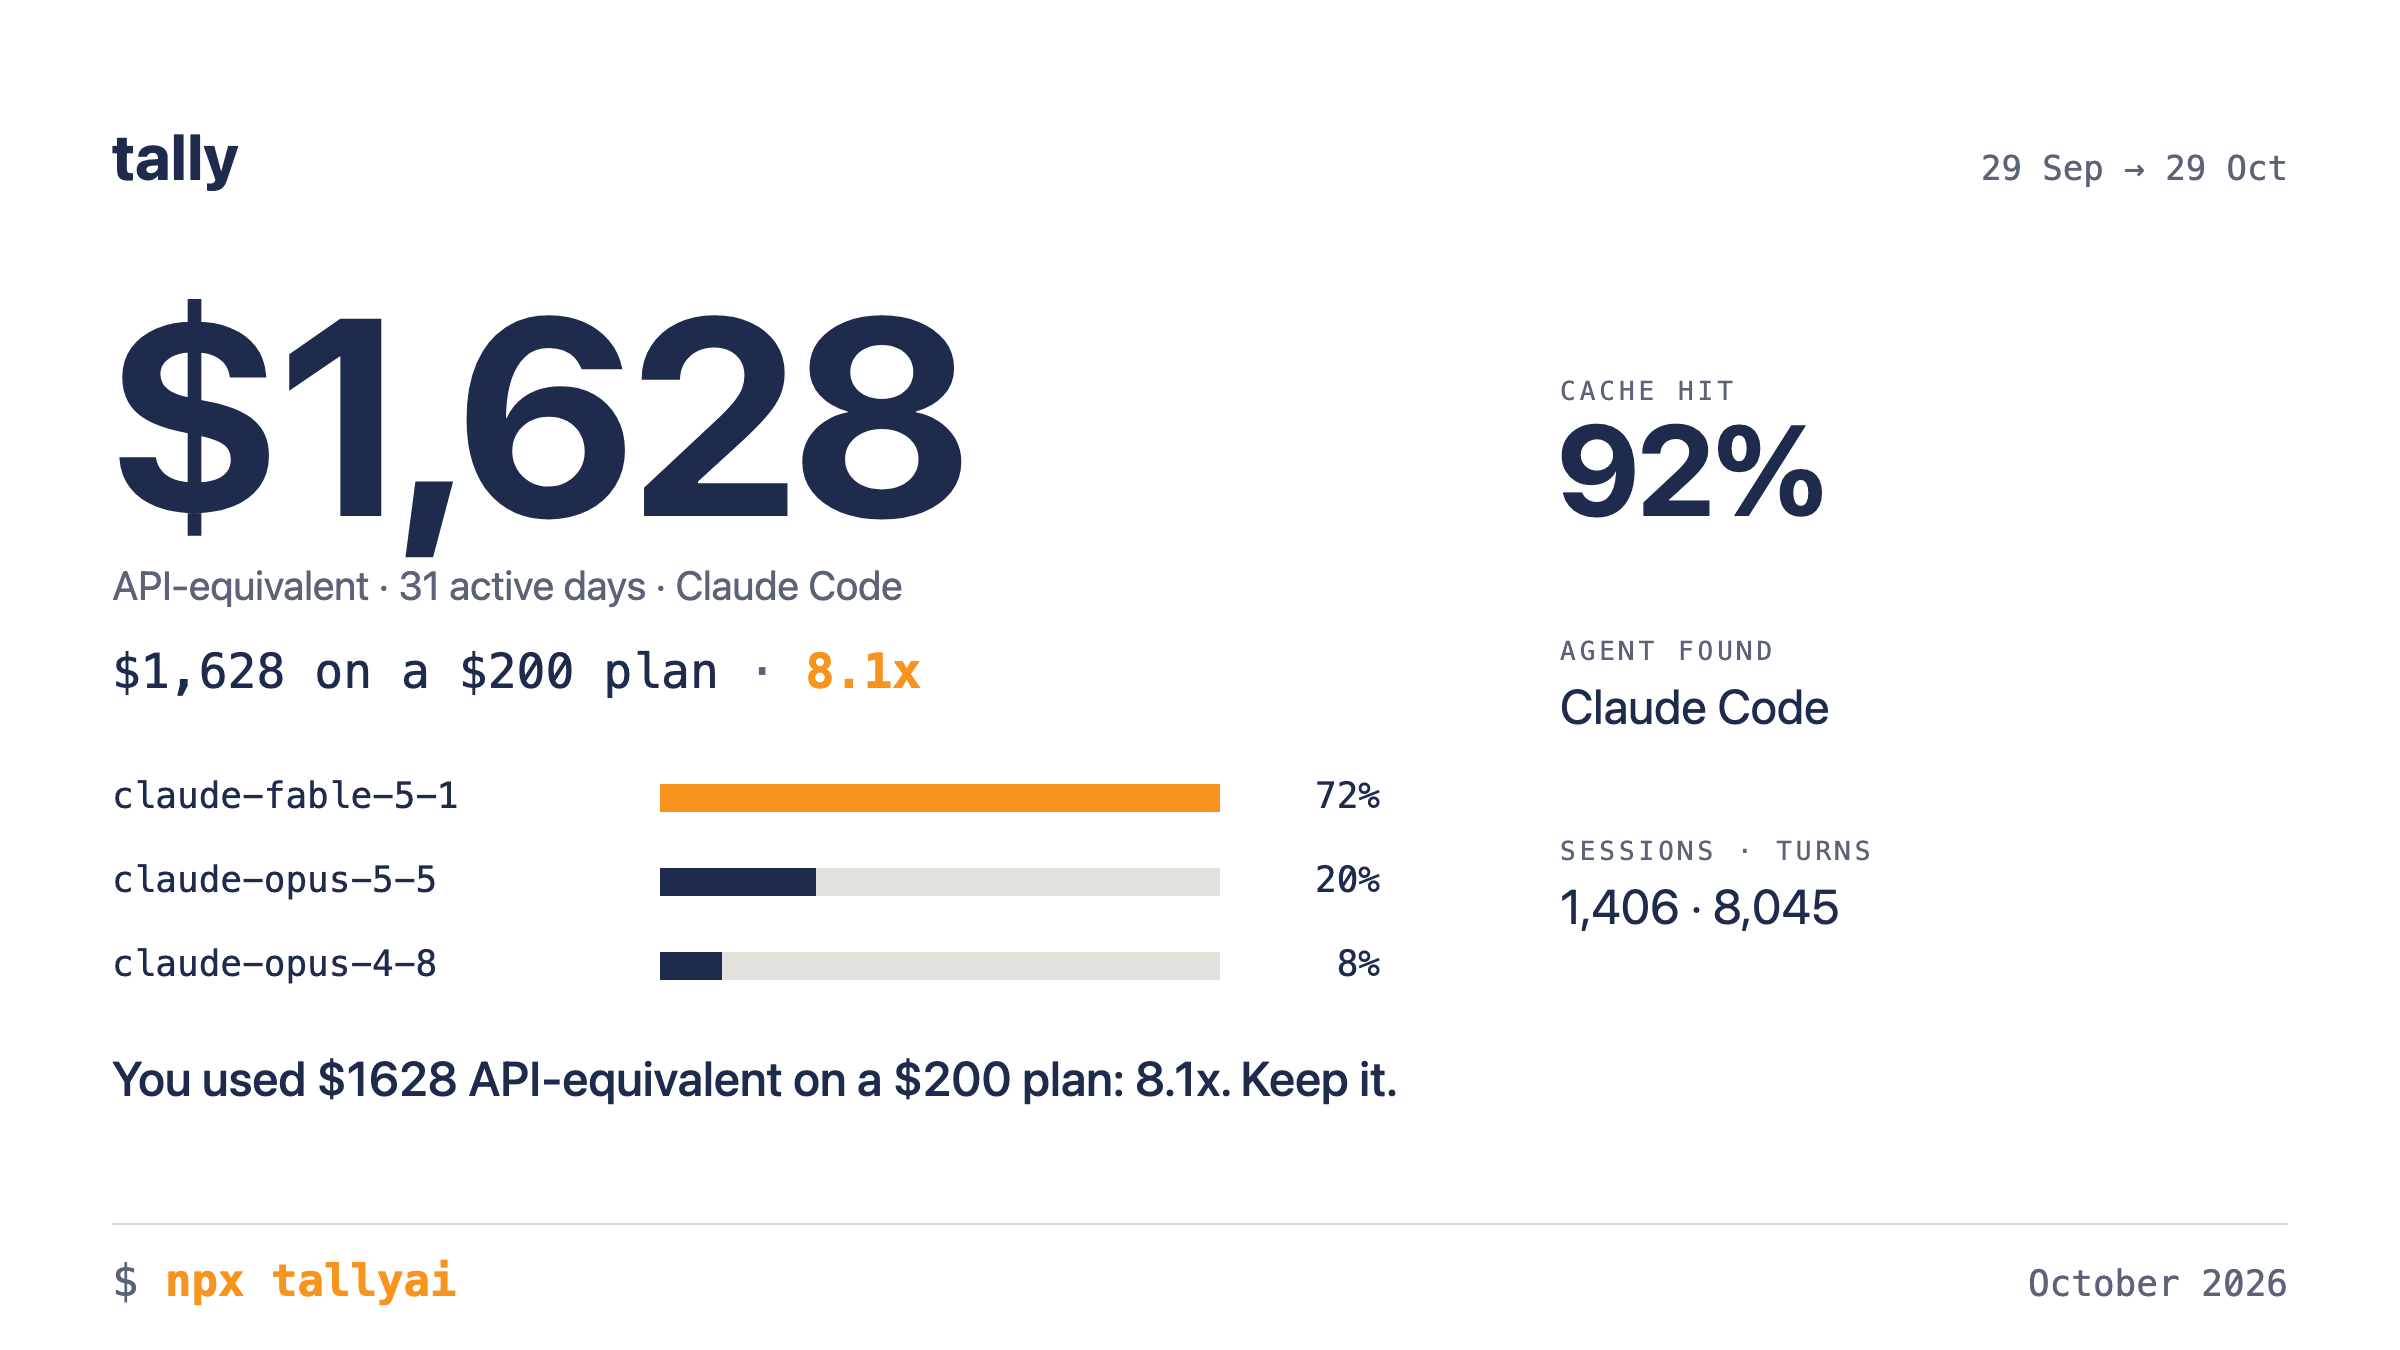
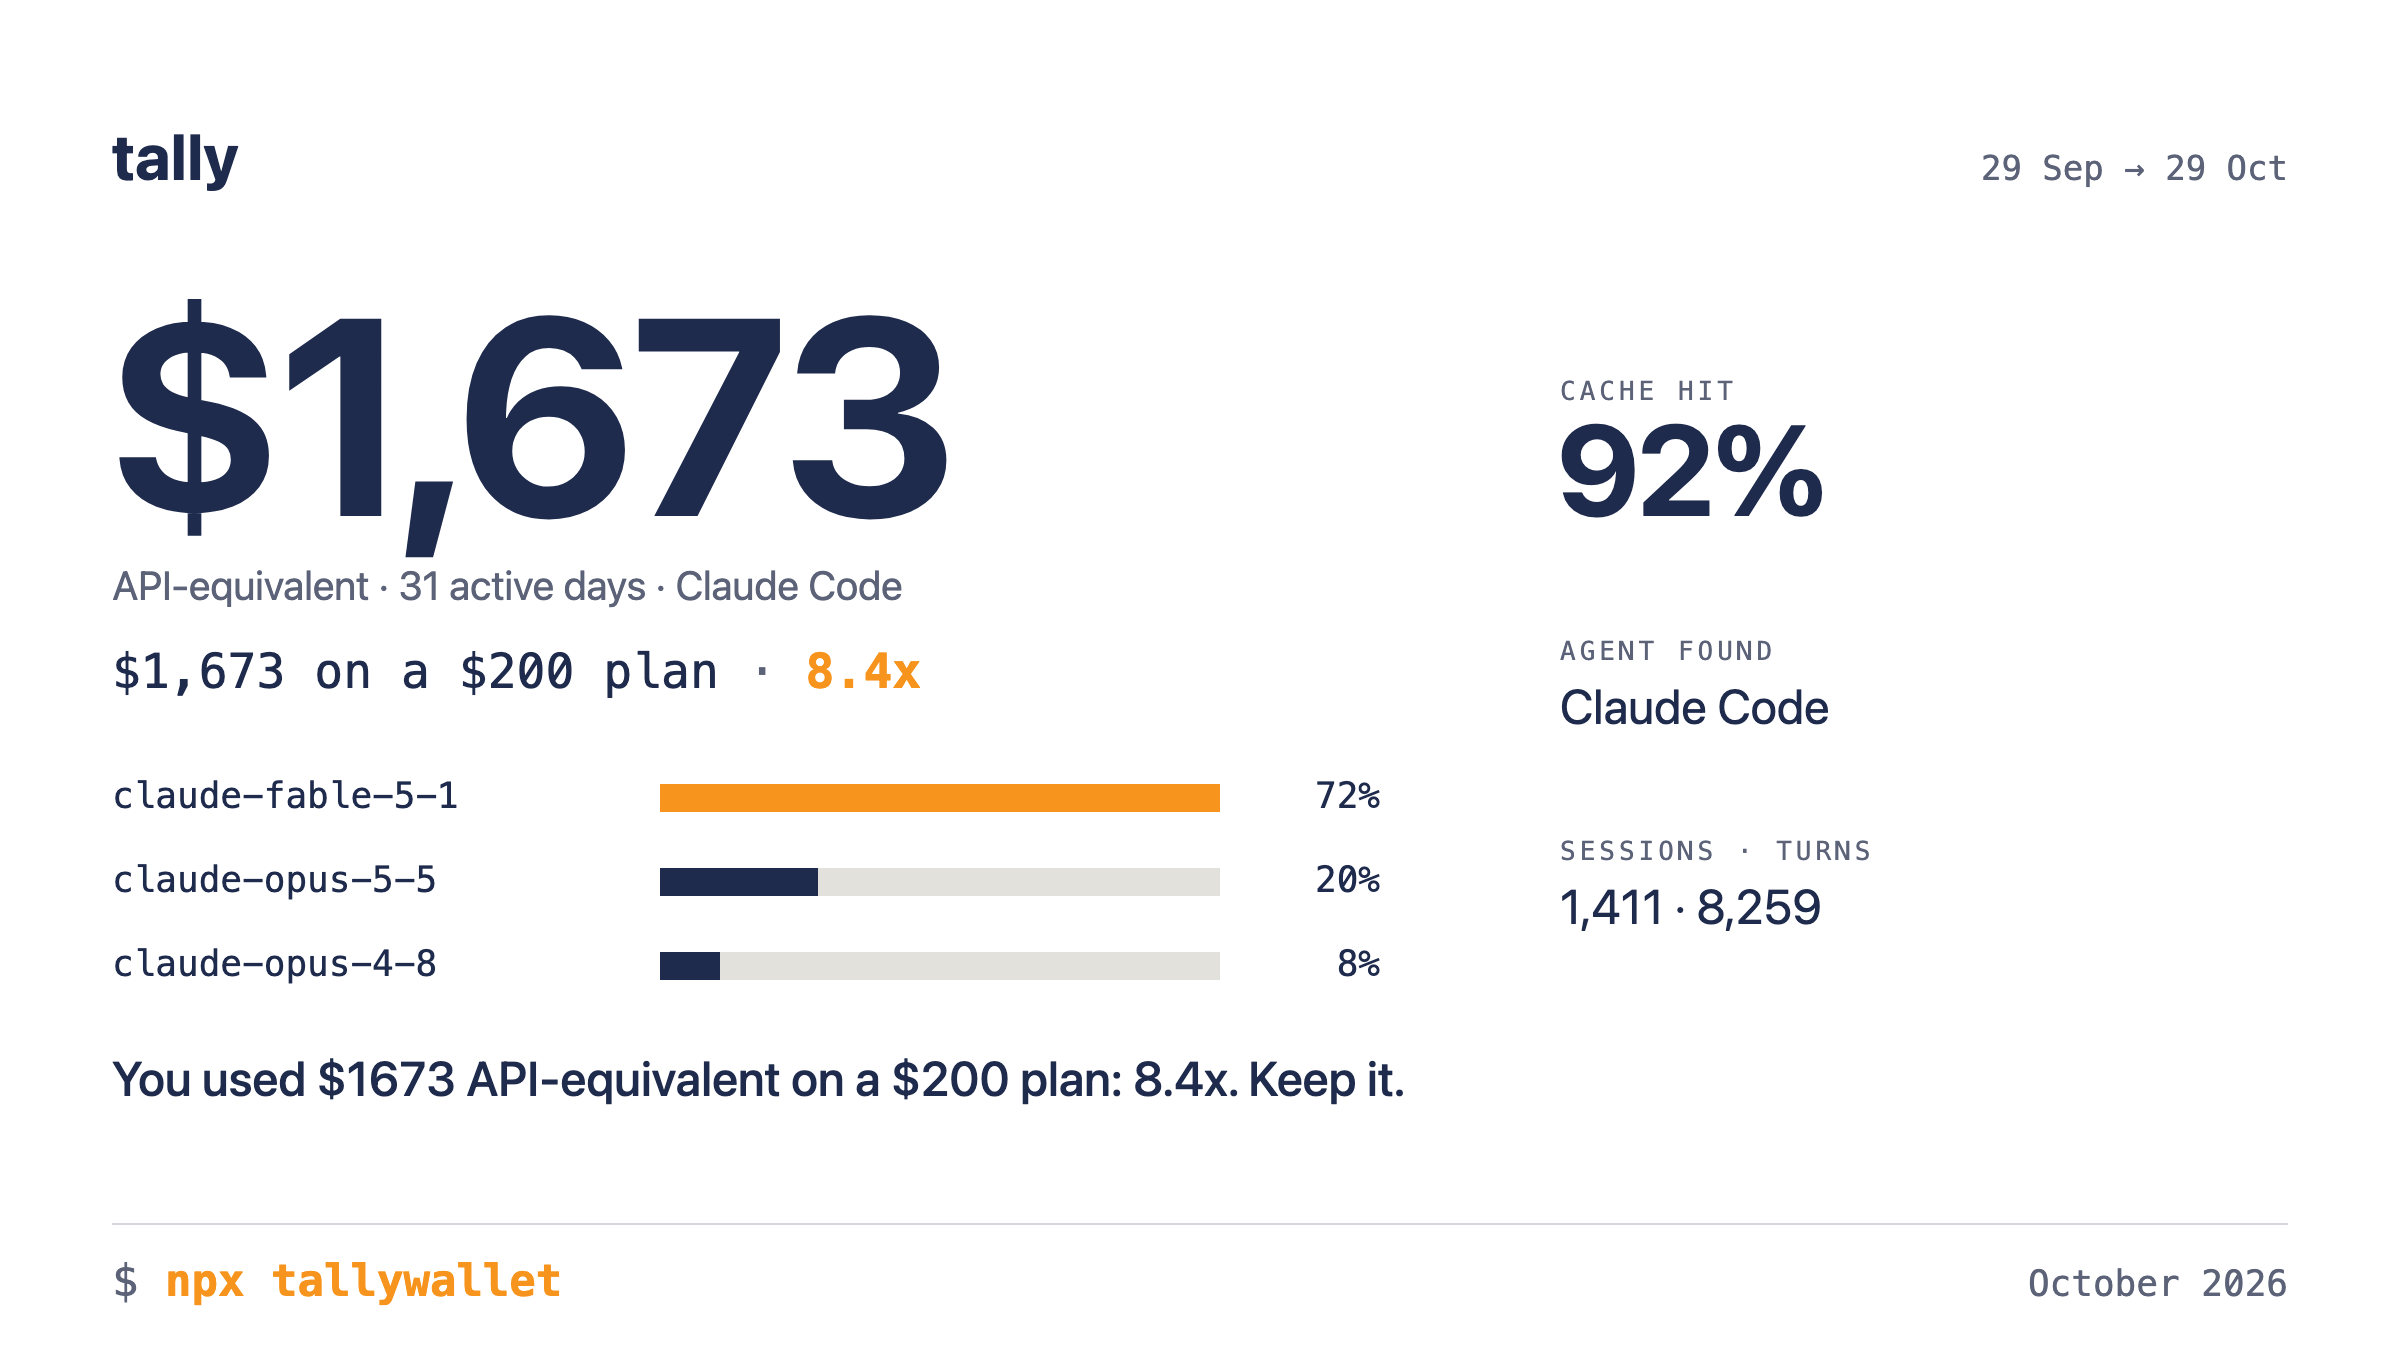
Rename the npm package to tallywallet (npm blocks tallyai as too similar to tally-ai)

diff --git a/packages/site/index.html b/packages/site/index.html
@@ -4,7 +4,7 @@
 <meta charset="utf-8">
 <meta name="viewport" content="width=device-width, initial-scale=1">
 <title>Tally, your AI wallet</title>
-<meta name="description" content="npx tallyai reads the Claude Code logs already on your disk, prices them at API rates and says whether to keep the plan. Read-only, local, no account, MIT.">
+<meta name="description" content="npx tallywallet reads the Claude Code logs already on your disk, prices them at API rates and says whether to keep the plan. Read-only, local, no account, MIT.">
 <link rel="canonical" href="https://tally-ai-wallet.netlify.app/">
 <meta property="og:type" content="website">
 <meta property="og:title" content="Tally, your AI wallet">
@@ -14,7 +14,7 @@
 <meta property="og:image:height" content="630">
 <meta name="twitter:card" content="summary_large_image">
 <meta name="twitter:title" content="Tally, your AI wallet">
-<meta name="twitter:description" content="See what your plan is worth. npx tallyai, no account, nothing uploaded.">
+<meta name="twitter:description" content="See what your plan is worth. npx tallywallet, no account, nothing uploaded.">
 <meta name="twitter:image" content="https://tally-ai-wallet.netlify.app/assets/og.png">
 <meta name="theme-color" content="#ffffff" media="(prefers-color-scheme: light)">
 <meta name="theme-color" content="#05070a" media="(prefers-color-scheme: dark)">
@@ -50,7 +50,7 @@
     <div class="hero__reel" aria-label="The wallet screen, as tally prints it">
       <div class="hero__strip" id="strip">
         <figure class="hero__frame" data-ui>
-<pre class="term term--wide" title="A real 30-day run, 29 Sep to 29 Oct 2026"><span class="dim">$ </span>npx tallyai
+<pre class="term term--wide" title="A real 30-day run, 29 Sep to 29 Oct 2026"><span class="dim">$ </span>npx tallywallet
 <b>tally · 2026-09-29 → 2026-10-29</b>
 
 <b>YOUR AI WALLET</b>
@@ -62,7 +62,7 @@
     claude-sonnet-5             $2.94    0%  cache hit 89%
   openrouter                    <b>$0.52</b> billed
                             2,342 requests · 6 models</pre>
-<pre class="term term--phone" title="A real 30-day run, 29 Sep to 29 Oct 2026"><span class="dim">$ </span>npx tallyai
+<pre class="term term--phone" title="A real 30-day run, 29 Sep to 29 Oct 2026"><span class="dim">$ </span>npx tallywallet
 <b>tally · 2026-09-29 → 2026-10-29</b>
 
 <b>YOUR AI WALLET</b>
@@ -144,12 +144,12 @@
 
     <div class="hero__foot">
       <span class="hero__hint">Swipe for the verdict and the deals.</span>
-      <p>npx tallyai reads the Claude Code logs already on your disk, prices them at API rates and says whether to keep the plan. Read-only, local, no account.</p>
+      <p>npx tallywallet reads the Claude Code logs already on your disk, prices them at API rates and says whether to keep the plan. Read-only, local, no account.</p>
     </div>
     <div class="hero__cmd">
       <div class="cmd">
-        <code>npx tallyai</code>
-        <button class="cmd__copy" type="button" data-copy="npx tallyai" aria-label="Copy npx tallyai">
+        <code>npx tallywallet</code>
+        <button class="cmd__copy" type="button" data-copy="npx tallywallet" aria-label="Copy npx tallywallet">
           <span class="ic" aria-hidden="true">
             <svg class="ic--copy" viewBox="0 0 16 16" fill="none" stroke="currentColor" stroke-width="1.5" stroke-linecap="round" stroke-linejoin="round"><rect x="5.5" y="5.5" width="8" height="8" rx="1"/><path d="M10.5 5.5v-2a1 1 0 0 0-1-1h-6a1 1 0 0 0-1 1v6a1 1 0 0 0 1 1h2"/></svg>
             <svg class="ic--done" viewBox="0 0 16 16" fill="none" stroke="currentColor" stroke-width="1.8" stroke-linecap="round" stroke-linejoin="round"><path d="M3 8.5l3 3 7-7"/></svg>
@@ -469,8 +469,8 @@ No route events yet. Start the
   <div class="tile tile--cmd">
     <p>Run it once, no key.</p>
     <div class="cmd">
-      <code>npx tallyai</code>
-      <button class="cmd__copy" type="button" data-copy="npx tallyai" aria-label="Copy npx tallyai">
+      <code>npx tallywallet</code>
+      <button class="cmd__copy" type="button" data-copy="npx tallywallet" aria-label="Copy npx tallywallet">
         <span class="ic" aria-hidden="true">
           <svg class="ic--copy" viewBox="0 0 16 16" fill="none" stroke="currentColor" stroke-width="1.5" stroke-linecap="round" stroke-linejoin="round"><rect x="5.5" y="5.5" width="8" height="8" rx="1"/><path d="M10.5 5.5v-2a1 1 0 0 0-1-1h-6a1 1 0 0 0-1 1v6a1 1 0 0 0 1 1h2"/></svg>
           <svg class="ic--done" viewBox="0 0 16 16" fill="none" stroke="currentColor" stroke-width="1.8" stroke-linecap="round" stroke-linejoin="round"><path d="M3 8.5l3 3 7-7"/></svg>

diff --git a/packages/core/src/card.test.ts b/packages/core/src/card.test.ts
@@ -45,7 +45,7 @@ describe("renderCard", () => {
     expect(svg).toContain(">1,403 · 7,975<");
     expect(svg).toContain("SESSIONS · TURNS");
     expect(svg).toContain("Keep it.");
-    expect(svg).toContain("npx tallyai");
+    expect(svg).toContain("npx tallywallet");
     expect(svg).toContain("October 2026");
   });
 
@@ -61,7 +61,7 @@ describe("renderCard", () => {
     expect(svg).not.toContain("CACHE HIT");
     expect(svg).not.toContain("AGENT");
     expect(svg).not.toContain("<rect x=\"330\"");
-    expect(svg).toContain("npx tallyai");
+    expect(svg).toContain("npx tallywallet");
     expect(svg).toContain("October 2026");
     expect(svg).toContain("29 Sep → 29 Oct");
     const noPlan = renderCard({ ...full, plan: undefined, verdict: undefined });

diff --git a/packages/core/src/card.ts b/packages/core/src/card.ts
@@ -223,7 +223,7 @@ export function renderCard(data: CardData, opts: CardOptions = {}): string {
   // Footer.
   out.push(`<line x1="${g.pad}" y1="${g.ruleY}" x2="${right}" y2="${g.ruleY}" stroke="${c.rule}" stroke-width="1"/>`);
   out.push(
-    `<text x="${g.pad}" y="${g.footerY}" font-family="${MONO}" font-size="22" fill="${c.ink}"><tspan fill="${c.muted}">$ </tspan><tspan fill="${c.accent}" font-weight="700">npx tallyai</tspan></text>`,
+    `<text x="${g.pad}" y="${g.footerY}" font-family="${MONO}" font-size="22" fill="${c.ink}"><tspan fill="${c.muted}">$ </tspan><tspan fill="${c.accent}" font-weight="700">npx tallywallet</tspan></text>`,
   );
   text(right, g.footerY, month, { size: 18, mono: true, fill: c.muted, anchor: "end" });
   out.push(`</svg>`);

diff --git a/packages/site/og.html b/packages/site/og.html
@@ -24,7 +24,7 @@
   <div class="og__mark">tally</div>
   <h1 class="og__h"><span>See what your</span></h1>
   <figure data-ui>
-<pre class="term"><span class="dim">$ </span>npx tallyai
+<pre class="term"><span class="dim">$ </span>npx tallywallet
 
 <b>YOUR AI WALLET</b>
   Claude Code (local logs)  <b>$1,600.59</b> API-equiv.

diff --git a/STATE.md b/STATE.md
@@ -6,7 +6,7 @@ Resume prompt (paste into Claude Code from any directory):
 
 ## What exists (main, pushed to the private repo github.com/bsssm/tally)
 
-- `npx tallyai` (package `tallyai` 0.1.0, not yet published): wallet screen from Claude Code, Codex CLI, Cursor and Gemini CLI local logs priced at API rates, OpenRouter ledger, plan verdict with levers, top deals. Clean empty state, no Keychain or passphrase prompt until the first `connect`.
+- `npx tallywallet` (package `tallywallet` 0.1.0, not yet published): wallet screen from Claude Code, Codex CLI, Cursor and Gemini CLI local logs priced at API rates, OpenRouter ledger, plan verdict with levers, top deals. Clean empty state, no Keychain or passphrase prompt until the first `connect`.
 - `tally deals [--all]`: 16 verified + 1 unconfirmed deals, expired ones with a missed line. Six Context.dev page monitors (`packages/core/data/monitors.json`, about 75 credits a month); `pnpm sweep` lists changes.
 - `tally route`: credits router on 127.0.0.1:7411 (`packages/router`). OpenAI and Anthropic shapes, streaming, pools (`route pool add anthropic --usd 200 --resets 7`), `route status`, `route jobs`. Reconciles from the Admin API when `tally connect anthropic --admin` is stored.
 - `tally pace [install|uninstall]`: Claude Code statusline + UserPromptSubmit hook (`packages/claude-code-plugin`), also installable as a plugin from the repo root marketplace. Rendered here: `tally 5h 64% $90.4 ↻1h24 · today $103`.
@@ -24,7 +24,7 @@ Resume prompt (paste into Claude Code from any directory):
 
 ## Waiting on Bassam (also Todoist, 30 Oct 10am)
 
-- [ ] Name: keep Tally / `tallyai`, or rename (9 live TALLY marks in USPTO classes 9 and 42; every tally domain taken; free: aiwallet.sh, tallied.dev, purse.dev $89).
+- [ ] Name: keep Tally / `tallywallet`, or rename (9 live TALLY marks in USPTO classes 9 and 42; every tally domain taken; free: aiwallet.sh, tallied.dev, purse.dev $89).
 - [ ] Enable 2FA on npm, then the publish goes through.
 - [ ] Anthropic API key + admin key → `tally connect anthropic` / `--admin`. Until then the router's credit path is untested with real credits.
 - [x] Downgrade to Max 5x stays (20 Nov). Flip `tally profile --plan max5` and the pool to $100 after that date.

diff --git a/README.md b/README.md
@@ -5,7 +5,7 @@ Your AI wallet. One screen that prices your local Claude Code usage at API rates
 ## Quickstart
 
 ```sh
-npx tallyai
+npx tallywallet
 ```
 
 That is the whole install. Node 20 or newer. No key, no sign-up. On a machine with Claude Code logs the first screen looks like this (sample numbers):
@@ -38,7 +38,7 @@ tally connect openrouter        # add API spend (key stays on this machine, encr
 tally profile --plan max20      # tell the verdict how you pay Anthropic
 ```
 
-The package installs two commands, `tallyai` and `tally`. They are the same binary.
+The package installs two commands, `tallywallet` and `tally`. They are the same binary.
 
 ## What it reads, and what never leaves your machine
 
@@ -121,7 +121,7 @@ Entries that carry data-use terms (for example free tiers that may train on prom
 
 ## Development
 
-pnpm monorepo. `packages/core` holds the schema, crypto, keystore, adapters, local log readers and the deals engine. `packages/router` is the credits router and `packages/claude-code-plugin` the Claude Code plugin. `packages/cli` is the published `tallyai` package: tsup bundles core and router into one file at `dist/bin/index.js`; `data/` and the plugin's `scripts/*.cjs` are copied in at build time. `better-sqlite3` stays a native runtime dependency.
+pnpm monorepo. `packages/core` holds the schema, crypto, keystore, adapters, local log readers and the deals engine. `packages/router` is the credits router and `packages/claude-code-plugin` the Claude Code plugin. `packages/cli` is the published `tallywallet` package: tsup bundles core and router into one file at `dist/bin/index.js`; `data/` and the plugin's `scripts/*.cjs` are copied in at build time. `better-sqlite3` stays a native runtime dependency.
 
 ```sh
 pnpm install

diff --git a/packages/site/DESIGN-PLAN.md b/packages/site/DESIGN-PLAN.md
@@ -8,7 +8,7 @@ interface fragments "Achromatic ledger" (seed 435191889) at `.taste-skill/app/`.
 
 ## The subject (inventory, what only Tally has)
 
-1. `npx tallyai`, no key, no account; the first screen comes from files already on disk.
+1. `npx tallywallet`, no key, no account; the first screen comes from files already on disk.
 2. `~/.claude/projects/**/*.jsonl`: Claude Code's own session logs, one turn per line.
 3. A real 30-day run (29 Oct 2026): $1,601 API-equivalent on a $200 Max 20x plan, 8.0x.
 4. 72% of that run on claude-fable-5-1; cache hit rate shown per model.
